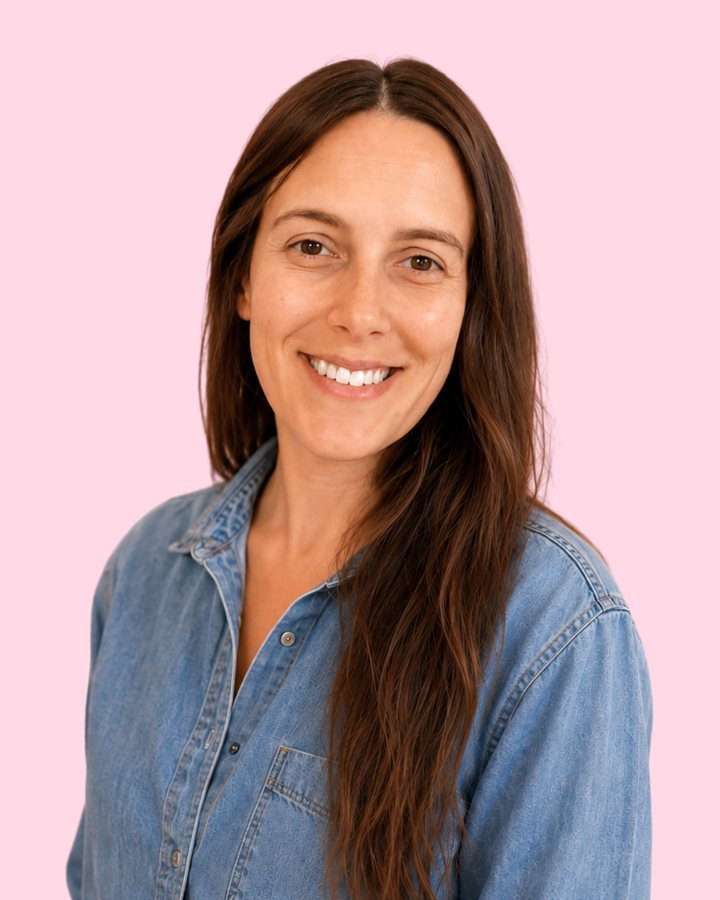
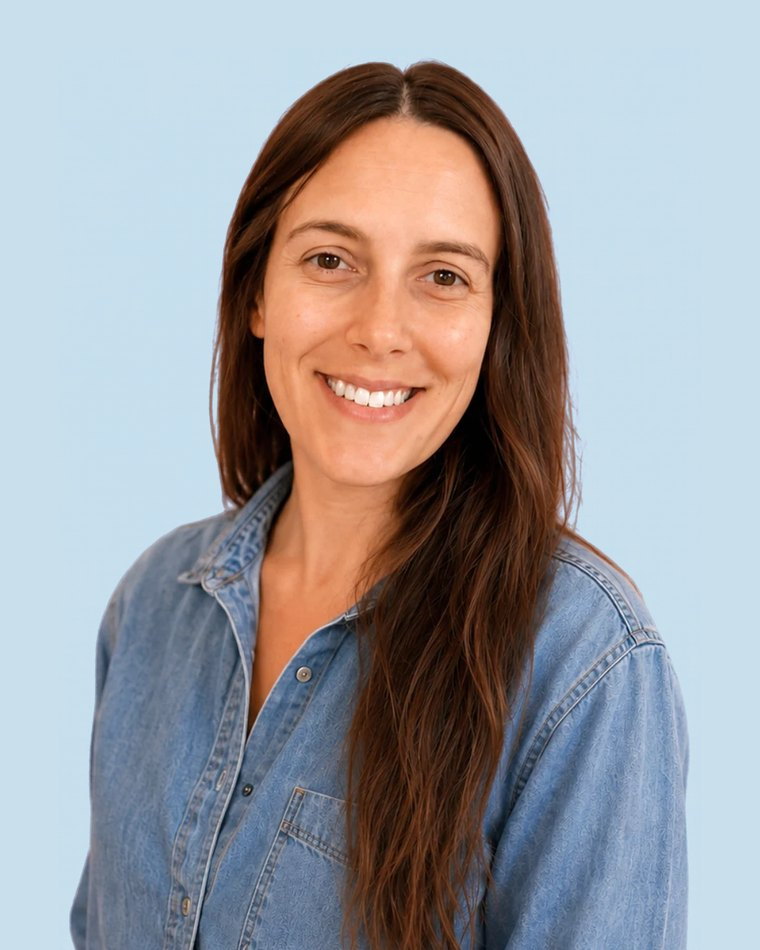
Foto nueva de Guada, con el celeste ajustado a la paleta
Claude-Session: https://claude.ai/code/session_01EABthfv4ppRNdn9QDmLvoe

diff --git a/index.html b/index.html
@@ -449,7 +449,7 @@ footer{background:var(--sage-soft);padding:4.5rem 1.5rem 2.5rem;}
     <div class="photo-wrap fade-up">
       <svg class="blob flowerA" viewBox="0 0 200 200" aria-hidden="true"><use href="#p-flower6" fill="#FBEAC2"/></svg>
       <svg class="blob scallopA" viewBox="0 0 200 200" aria-hidden="true"><use href="#p-scallop" fill="#E2EDEE"/></svg>
-      <div class="photo"><img src="guadalupe-bernuchi.jpg" alt="Guadalupe Bernuchi" width="720" height="900" loading="lazy"></div>
+      <div class="photo"><img src="guadalupe-bernuchi.jpg" alt="Guadalupe Bernuchi" width="760" height="950" loading="lazy"></div>
       <span class="badge badge-1">IA aplicada</span>
       <span class="badge badge-2">LATAM &amp; España</span>
     </div>
